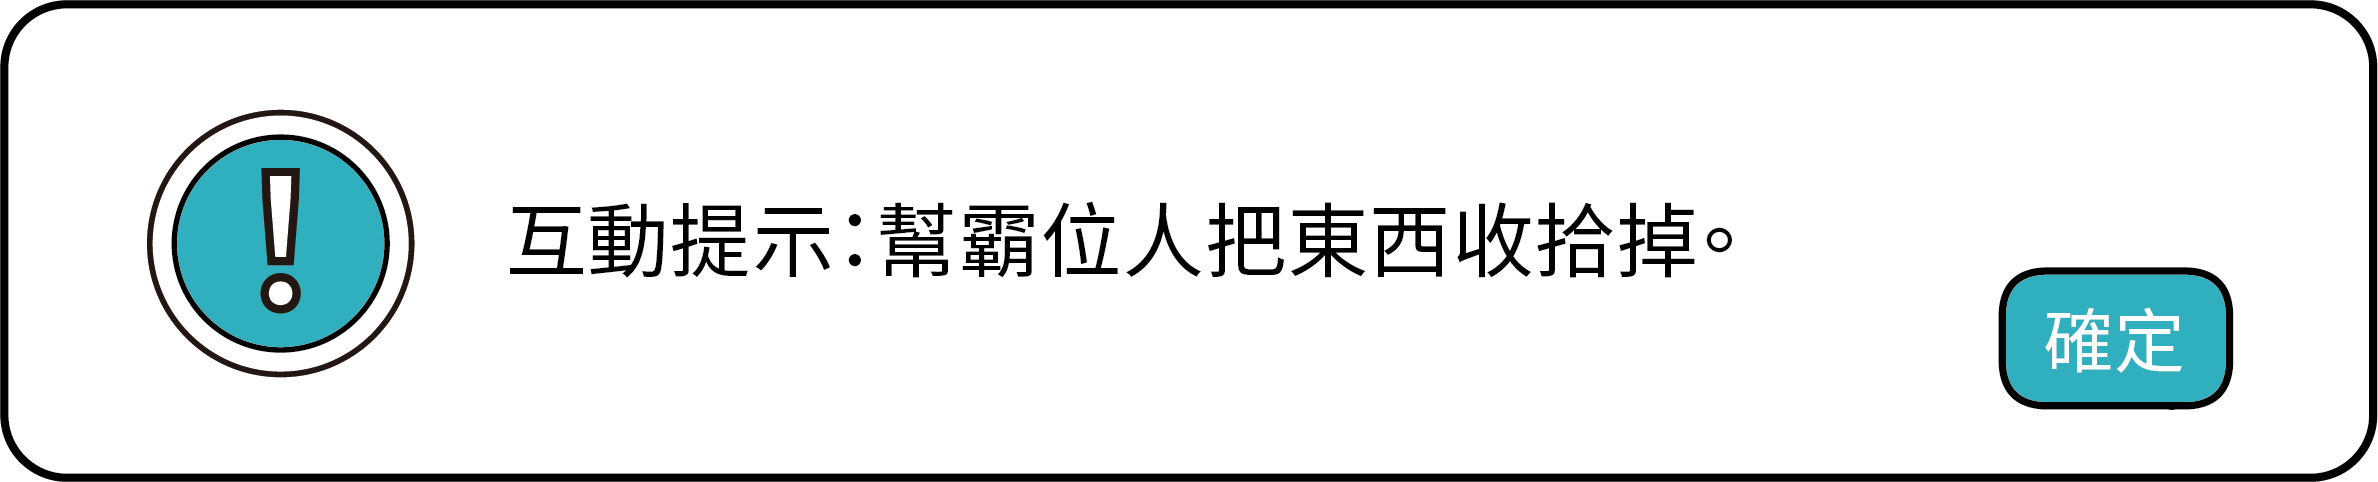
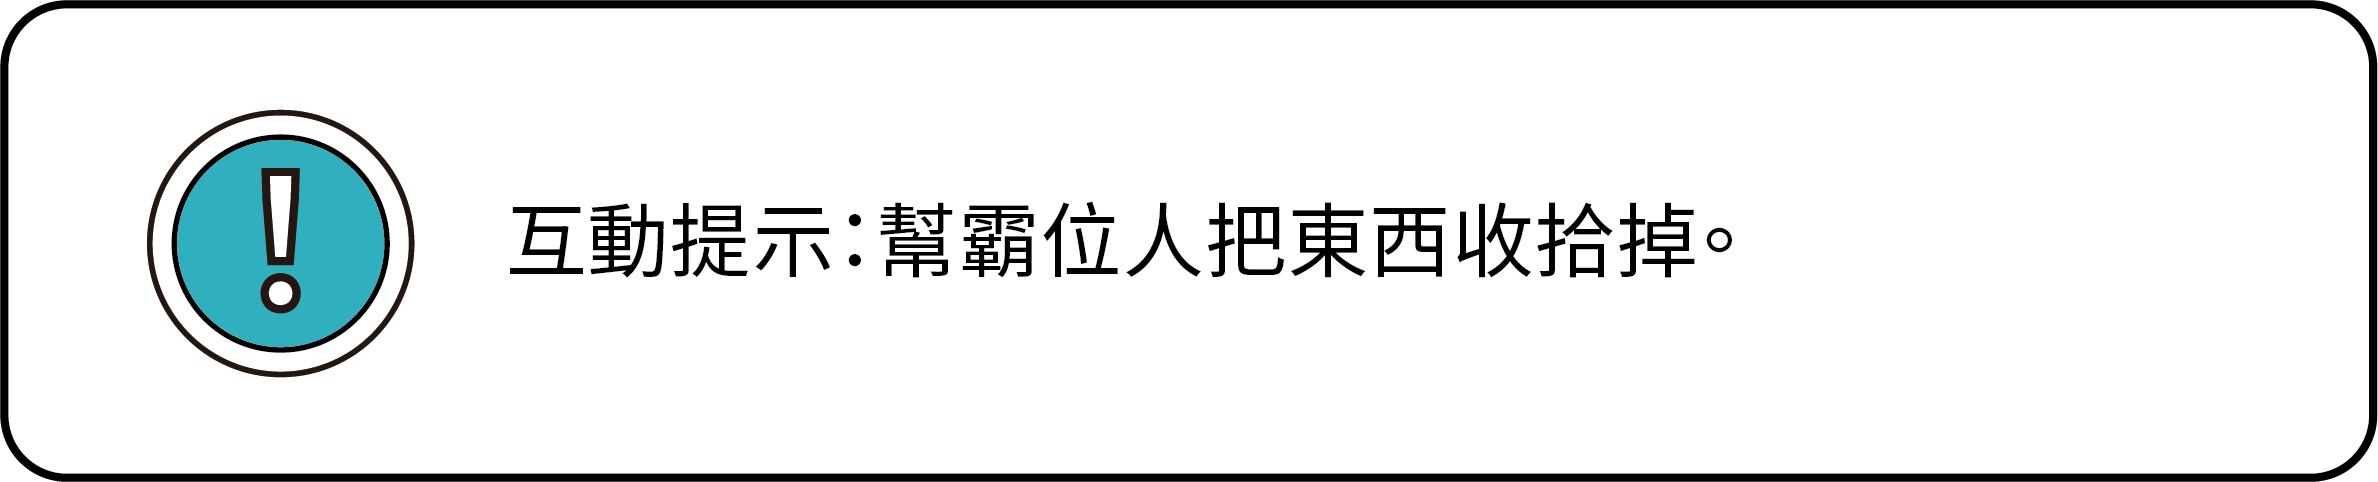
0420: :

Changed region(s): [[0.8402, 0.529, 0.9647, 0.8714]]

diff --git a/js/eventListener.js b/js/eventListener.js
@@ -101,6 +101,7 @@ let talk7Chk = true
 let response8 = occupys.filter(occupy=>occupy.name == '8')[0] 
 
 let response9 = occupys.filter(occupy=>occupy.name == '9')[0] 
+let chk = occupys.filter(occupy=>occupy.name == 'chk')[0] 
 
 let talk10A = occupys.filter(occupy=>occupy.name == '10A')[0]
 let talk10B = occupys.filter(occupy=>occupy.name == '10B')[0]
@@ -140,7 +141,7 @@ canvas.addEventListener('click', (e)=>{
                     talk3A.enlarge = true
                     talk3B.show = true
                     talk3B.enlarge = true
-                }, response2.text.split('').length*10 + 1000)
+                }, response2.text.split('').length*10 + 1500)
                 
             }
         }
@@ -181,7 +182,7 @@ canvas.addEventListener('click', (e)=>{
                 talk5B.enlarge = true
 
                 
-            }, response4.text.split('').length*10 + 1000)
+            }, response4.text.split('').length*10 + 1500)
         }
       
 
@@ -204,7 +205,7 @@ canvas.addEventListener('click', (e)=>{
                     talk7.show = true
                     talk7.enlarge = true
 
-                }, response6A.text.split('').length*10 + 1000)
+                }, response6A.text.split('').length*10 + 1500)
 
             }
             if(x>=talk5B.position.x && x<=talk5B.position.x + talk5B.oldWidth && y>=talk5B.position.y && y<=talk5B.position.y + talk5B.oldHeight){
@@ -224,7 +225,7 @@ canvas.addEventListener('click', (e)=>{
                     talk7.show = true
                     talk7.enlarge = true
 
-                }, response6B.text.split('').length*10 + 1000)
+                }, response6B.text.split('').length*10 + 1500)
 
             }
 
@@ -242,17 +243,19 @@ canvas.addEventListener('click', (e)=>{
 
                 setTimeout(()=>{
                     response9.show = true
-                    response9.enlarge = true
-                }, response8.text.split('').length*10 + 1000)
+                    chk.show = true
+                    chk.enlarge = true
+                    talk7.show = false
+                }, response8.text.split('').length*10 + 2000)
             }
         }
 
-        if(response9.show){
-            if(x>=response9.position.x && x<=response9.position.x + response9.oldWidth && y>=response9.position.y && y<=response9.position.y + response9.oldHeight){
-                talk7.show = false
+        if(response9.show && chk.show){
+            if(x>=chk.position.x && x<=chk.position.x + chk.oldWidth && y>=chk.position.y && y<=chk.position.y + chk.oldHeight){
                 response8.show = false
                 response9.show = false
-                response9.enlarge = false
+                chk.show = false
+                chk.enlarge = false
                 people.show = false
 
                 occupys.forEach(occupy=>{

diff --git a/index.js b/index.js
@@ -54,7 +54,7 @@ const occupys = [
     new Shared({x:235, y:480, w:134.784, h:40, image: createImage('./images/occupys/a1.png'),}),
     new Shared({x:290, y:535, w:91/2.8, h:137/2.8, image: createImage('./images/occupys/b1.png')}),
     new Shared({x:395, y:490, w:258/2.8, h:126/2.8, image: createImage('./images/occupys/c1.png')}),
-    new Shared({x:435, y:680, w:132/2.6, h:103/2.6, image: createImage('./images/occupys/d1.png')}),
+    new Shared({x:455, y:680, w:132/2.6, h:103/2.6, image: createImage('./images/occupys/d1.png')}),
     new Shared({x:570, y:550, w:110/2.4, h:113/2.4, image: createImage('./images/occupys/e1.png')}),
     new Shared({x:670, y:538, w:654/3.4, h:178/3.2, image: createImage('./images/occupys/f1.png')}),
     new Shared({x:835, y:460, w:122/2.7, h:233/2.7, image: createImage('./images/occupys/g1.png')}),
@@ -78,6 +78,7 @@ const occupys = [
     new Shared({x:mesterTalkX, y:mesterTalkY-630/4.5, w:2378/4.5, h:630/4.5, image: createImage('./images/occupys/talk/res.png'), isTalk:true, isEnlarge:false, multiple:1, name:'6B', isShow:false ,text:"洗勒考喔！是在趕狗出去喔！", isTypewriter:true}),
     new Shared({x:mesterTalkX, y:mesterTalkY-630/4.5, w:2378/4.5, h:630/4.5, image: createImage('./images/occupys/talk/res.png'), isTalk:true, isEnlarge:false, multiple:1, name:'8', isShow:false ,text:"賀啦！也算是多虧這家店，林北才有地方休息，林北會盡量不影響其他人啦！", isTypewriter:true}),
     new Shared({x:canvas.width/2 - (2378/4.5)/2, y:canvas.height/2 - (482/4.5)/2, w:2378/4.5, h:482/4.5, image: createImage('./images/occupys/talk/9.png'), isTalk:true, isEnlarge:false, multiple:1, name:'9', isShow:false ,}),
+    new Shared({x:canvas.width/2 - (112/2)/2 + 200, y:canvas.height/2 - (68/2)/2 + 20, w:112/2, h:68/2, image: createImage('./images/occupys/talk/chk.png'), isEnlarge:false, multiple:1, name:'chk', isShow:false ,}),
 ]
 
 
